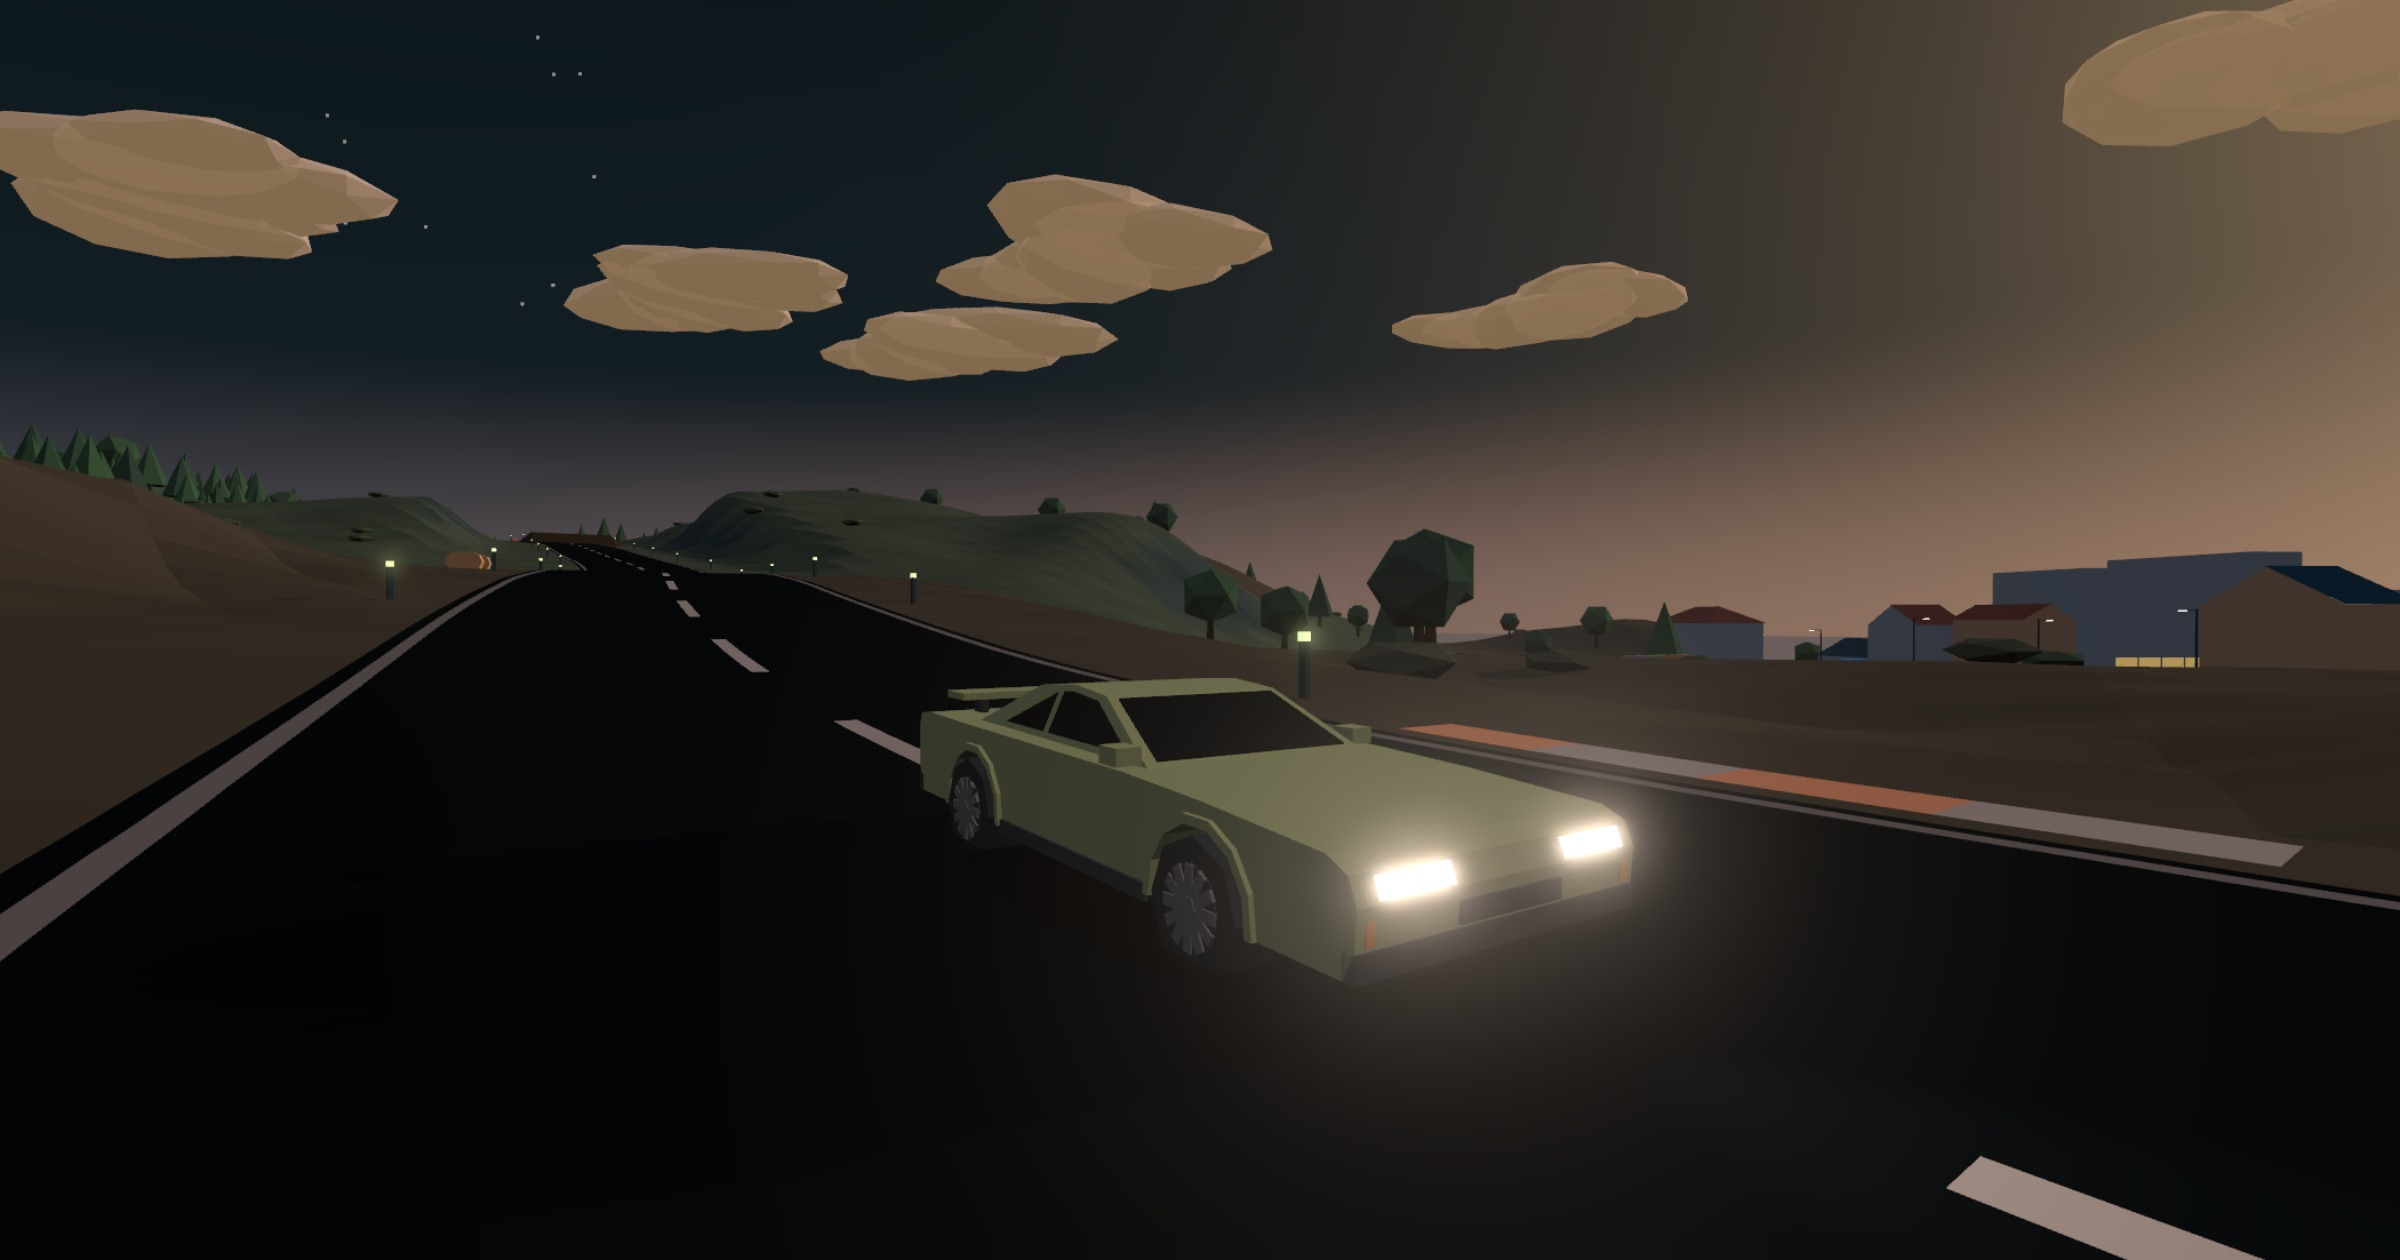
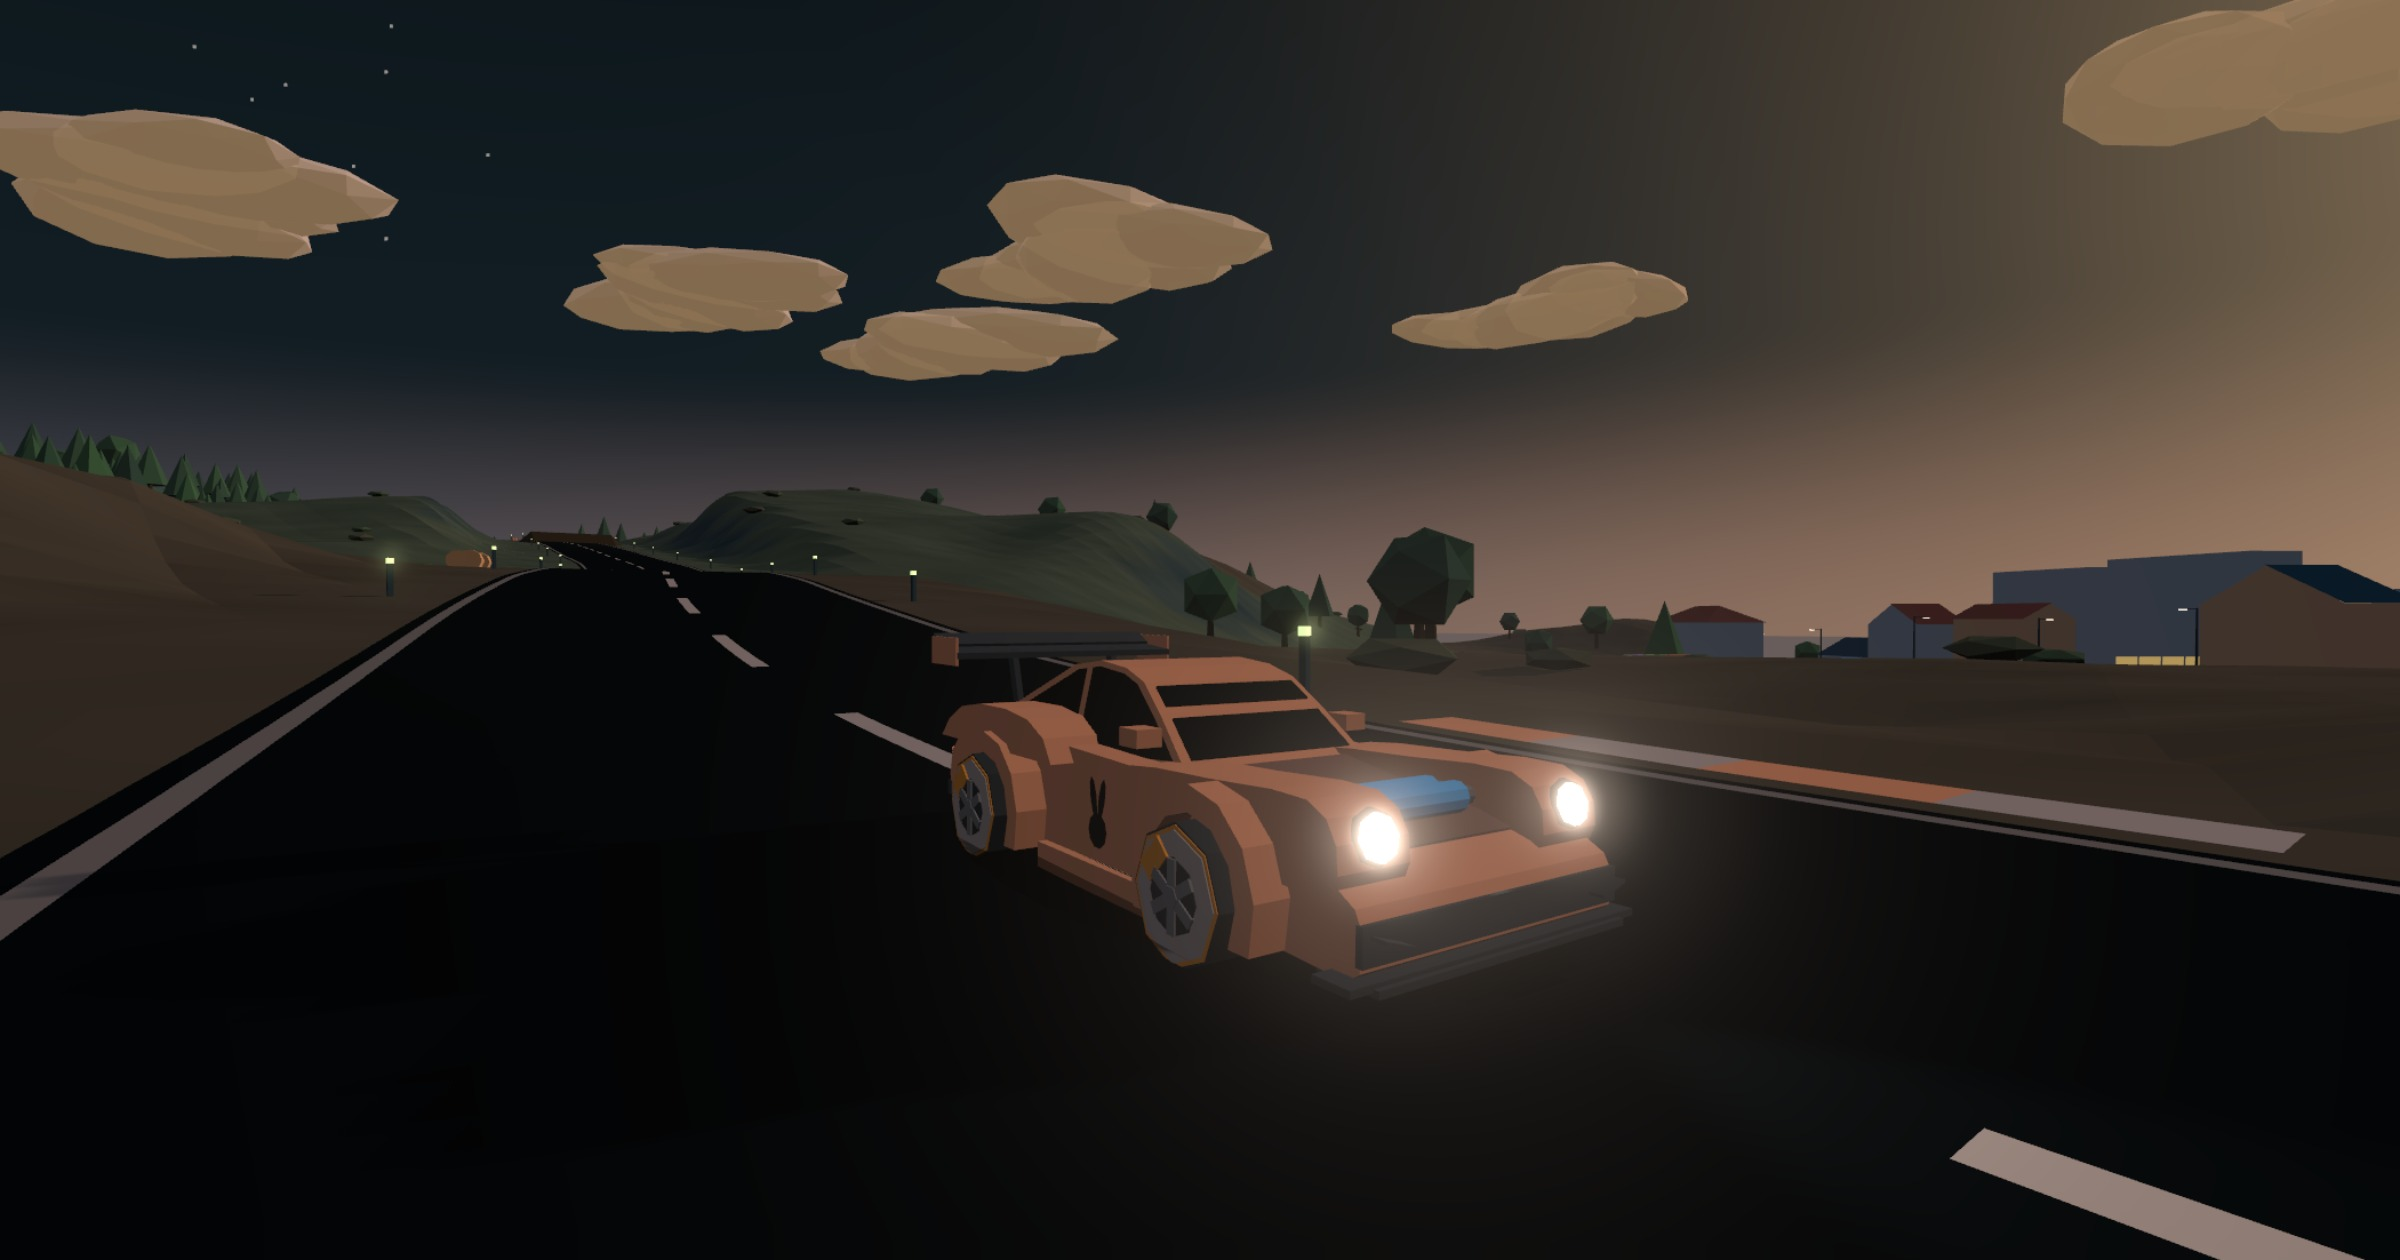
feat: link preview shows the fully tuned Sturm
- scripts/og/capture.mjs: shoots the Sturm with every slot at its top part, race kit wing, accent paint and rabbit decal
- scripts/og/hero.jpg, public/og.jpg: re-shot and re-rendered with the same dusk framing
- index.html, README.md: image alt text describes the new car

diff --git a/index.html b/index.html
@@ -17,7 +17,7 @@
     <meta property="og:image" content="https://lilbunnyrabbit.github.io/harepin/og.jpg" />
     <meta property="og:image:width" content="1200" />
     <meta property="og:image:height" content="630" />
-    <meta property="og:image:alt" content="Harepin: a low-poly coupe with its headlights on, on an island road at dusk" />
+    <meta property="og:image:alt" content="Harepin: a fully tuned low-poly sports car with a big rear wing and its headlights on, on an island road at dusk" />
     <meta name="twitter:card" content="summary_large_image" />
     <meta name="twitter:title" content="Harepin" />
     <meta name="twitter:description" content="An island to roam, a track in the sky, friends a link away." />

diff --git a/README.md b/README.md
@@ -1,4 +1,4 @@
-<a href="https://lilbunnyrabbit.github.io/harepin/"><img src="public/og.jpg" alt="Harepin: a low-poly coupe with its headlights on, on an island road at dusk" width="100%"></a>
+<a href="https://lilbunnyrabbit.github.io/harepin/"><img src="public/og.jpg" alt="Harepin: a fully tuned low-poly sports car with a big rear wing and its headlights on, on an island road at dusk" width="100%"></a>
 
 <h2 align="center"><a href="https://lilbunnyrabbit.github.io/harepin/">Play Harepin</a></h2>
 <p align="center">Free, in the browser, nothing to install.</p>
